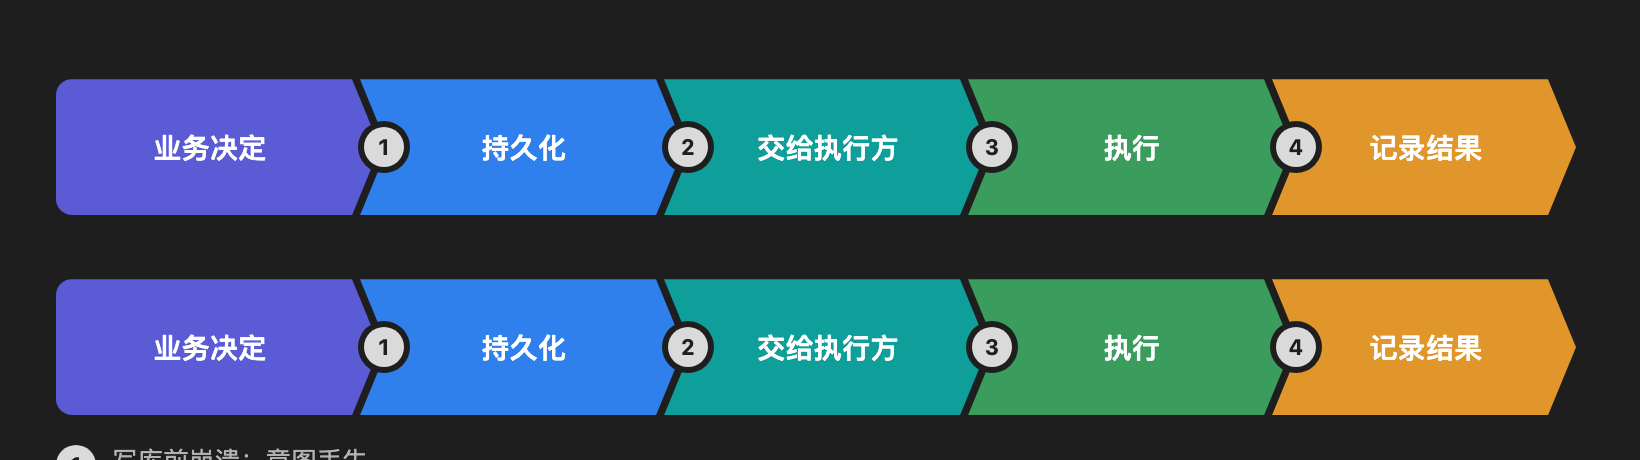
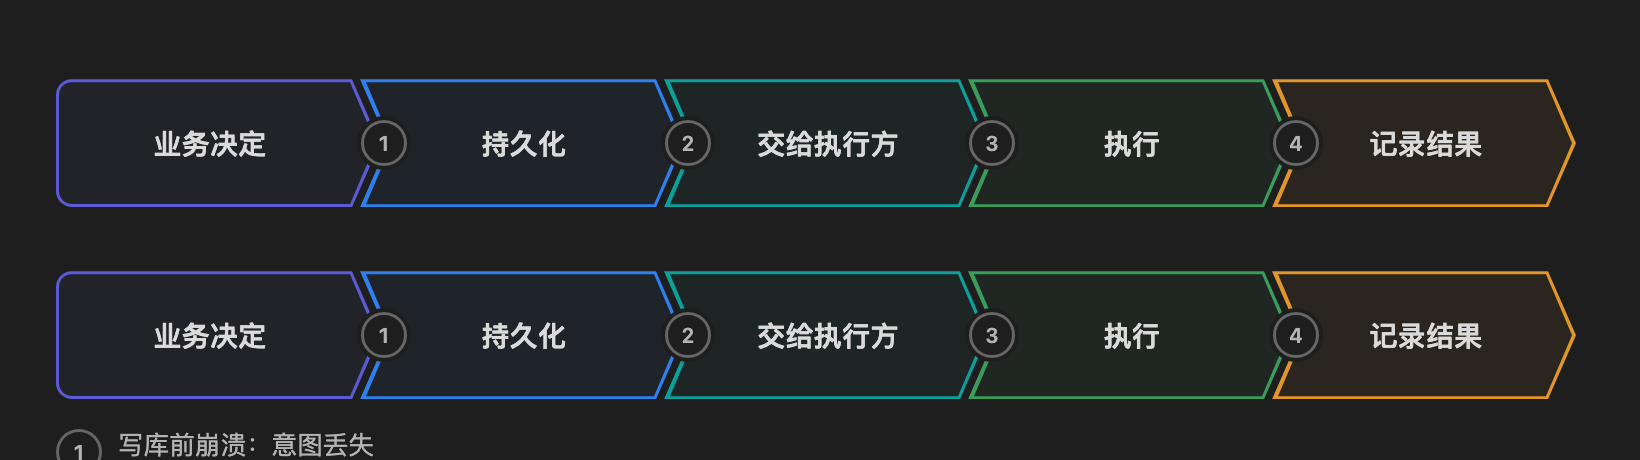
Outlined arrows instead of filled color blocks

diff --git a/styles.css b/styles.css
@@ -36,18 +36,24 @@
 	margin-right: 0;
 }
 
+/* Outlined arrow: the segment is filled with the step color, and ::before covers it with the
+   page background in the same shape pulled in by the border width. Slanted edges move in a
+   little further horizontally (--bb-d) so they look as thick as the straight ones. */
 .bb-pf-seg {
+	--bb-b: 1.5px;
+	--bb-d: 2px;
+	position: relative;
 	flex: 1;
-	min-height: 52px;
+	min-height: 48px;
 	padding: 8px calc(var(--bb-notch) + 8px) 8px calc(var(--bb-notch) + 10px);
 	display: flex;
 	align-items: center;
 	justify-content: center;
 	text-align: center;
 	background: var(--bb-c);
-	color: #fff;
+	color: var(--text-normal);
 	font-size: 0.875em;
-	font-weight: 650;
+	font-weight: 600;
 	letter-spacing: 0.01em;
 	overflow-wrap: anywhere;
 	clip-path: polygon(
@@ -60,15 +66,42 @@
 	);
 }
 
+.bb-pf-seg::before {
+	content: "";
+	position: absolute;
+	inset: 0;
+	z-index: -1;
+	background: color-mix(in srgb, var(--bb-c) 6%, var(--background-primary));
+	clip-path: polygon(
+		calc(var(--bb-d) + 1px) var(--bb-b),
+		calc(100% - var(--bb-notch) - var(--bb-d) + 1px) var(--bb-b),
+		calc(100% - var(--bb-d)) 50%,
+		calc(100% - var(--bb-notch) - var(--bb-d) + 1px) calc(100% - var(--bb-b)),
+		calc(var(--bb-d) + 1px) calc(100% - var(--bb-b)),
+		calc(var(--bb-notch) + var(--bb-d)) 50%
+	);
+}
+
 .is-first > .bb-pf-seg {
 	padding-left: 14px;
 	border-radius: 8px 0 0 8px;
 	clip-path: polygon(0 0, calc(100% - var(--bb-notch)) 0, 100% 50%, calc(100% - var(--bb-notch)) 100%, 0 100%);
 }
 
+.is-first > .bb-pf-seg::before {
+	inset: var(--bb-b) 0 var(--bb-b) var(--bb-b);
+	border-radius: 6.5px 0 0 6.5px;
+	clip-path: polygon(
+		0 0,
+		calc(100% - var(--bb-notch) - var(--bb-d) + 1px) 0,
+		calc(100% - var(--bb-d)) 50%,
+		calc(100% - var(--bb-notch) - var(--bb-d) + 1px) 100%,
+		0 100%
+	);
+}
+
 .bb-pf-seg code {
-	background: rgba(255, 255, 255, 0.2);
-	color: inherit;
+	font-size: 0.95em;
 }
 
 /* Handoff node: centered in the gap between this arrow's tip and the next one's notch. */
@@ -78,7 +111,7 @@
 	left: calc(100% + (var(--bb-notch) - var(--bb-overlap)) / 2);
 	top: 50%;
 	transform: translate(-50%, -50%);
-	box-shadow: 0 0 0 3px var(--background-primary);
+	box-shadow: 0 0 0 2px var(--background-primary);
 }
 
 .bb-pf-num {
@@ -89,10 +122,11 @@
 	display: inline-flex;
 	align-items: center;
 	justify-content: center;
-	background: var(--text-normal);
-	color: var(--background-primary);
-	font-size: 11px;
-	font-weight: 700;
+	border: 1.5px solid var(--text-faint);
+	background: var(--background-primary);
+	color: var(--text-muted);
+	font-size: 10.5px;
+	font-weight: 600;
 	font-variant-numeric: tabular-nums;
 	line-height: 1;
 }

diff --git a/README.md b/README.md
@@ -2,7 +2,7 @@
 
 Code blocks for [Obsidian](https://obsidian.md) that render as diagrams you remember at a glance. No dependencies, a ~2.6 KB script, works in light and dark themes.
 
-The first block is a **process flow**: each step is a colored arrow, and every handoff between steps gets a numbered node. It is made for system design notes, where you sketch a lifecycle and mark every place work changes hands.
+The first block is a **process flow**: each step is an outlined arrow in its own color, and every handoff between steps gets a numbered node. It is made for system design notes, where you sketch a lifecycle and mark every place work changes hands.
 
 ![Process flow](docs/light.png)
 
